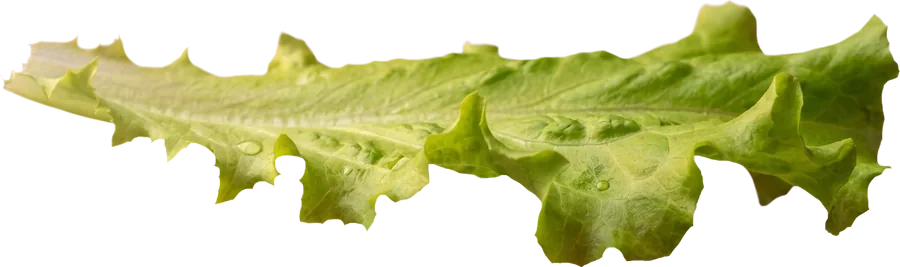
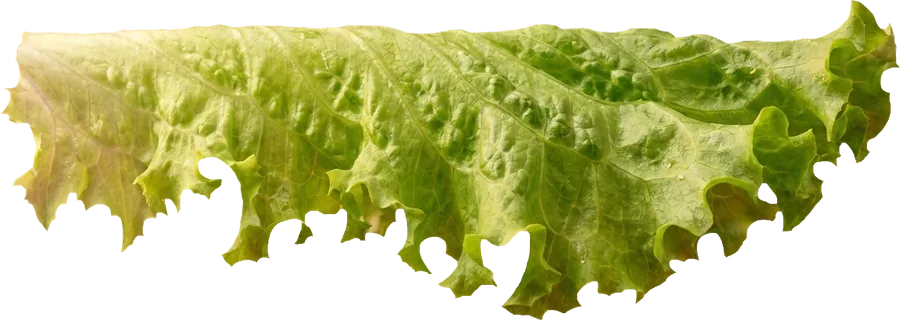
fix(camadas): alface vira faixa continua e o tomate entra em perfil de verdade
O cliente apontou que alface e cebola continuavam com cara artificial. Pesquisei
food styling de hamburguer antes de tentar outro ajuste no escuro, e a pesquisa
explicou os dois defeitos.

ALFACE — ERA FOLHA, PRECISAVA SER FAIXA

Food stylist usa folha de borda ondulada formando uma faixa continua que corre
pelo perimetro e sobra cerca de um centimetro da borda. A nossa era uma folha
assimetrica: grossa de um lado, ponta fina do outro. Centralizada na pilha, o
pao cobria o meio dela e sobravam duas pontas soltas nas laterais — o "recorte
colado" que ele viu.

TOMATE-CEBOLA — NAO ESTAVA EM PERFIL

Mostrava a face cortada inteira, polpa e sementes de frente, e a cebola como
elipse completa deslocada para a direita. Vista de cima com outro nome. Por isso
destoava do pao e da carne, que estao em perfil real, e por isso a cebola
aparecia so de um lado.

Agora: "reading as a horizontal red band… NOT the flat cut face", com a cebola
CENTRADA e "never a full ellipse".

A ARMADILHA QUE CUSTOU UMA GERACAO

Pedir "spanning the full width edge to edge" briga com o bloco de enquadramento,
que exige o ingrediente inteiro dentro do quadro. O modelo seguiu o mais
concreto e encostou a folha nas quatro bordas: empilhada, aparecia um RETANGULO
reto atras do pao, com o topo cortado em linha.

E a terceira vez que o mesmo mecanismo morde este script — instrucao concreta
vence instrucao distante. Ja aconteceu com o fundo, com a perspectiva, agora com
[…]

diff --git a/assets/prompts.md b/assets/prompts.md
@@ -383,3 +383,50 @@ justamente por terem saído no `pro`. Take final regerado em `gemini-3-pro-image
 **Nota:** pendente de aprovação do cliente. Se passar, promover o bloco de
 perspectiva para o `LOOK.md`, porque ele vale para qualquer conjunto de camadas
 futuro — não só para este.
+
+---
+
+## [camadas] Alface e tomate-cebola — o que a pesquisa de food styling corrigiu
+
+**2026-08-25** · segunda correção, depois de o cliente apontar que alface e
+cebola continuavam com cara artificial.
+
+**O que a pesquisa mostrou** ([FoodShot AI](https://foodshot.ai/blog/burger-photography),
+[Food Bloggers of Canada](https://www.foodbloggersofcanada.com/food-styling-the-burger/),
+[Hitchcock Farms](https://www.hitchcockfarms.com/blog/best-lettuce-for-burgers)):
+
+1. **Alface é faixa, não folha.** Food stylist usa folha de borda ondulada
+   formando uma faixa contínua que corre pelo perímetro e sobra ~1cm da borda.
+   A nossa era uma folha assimétrica — grossa de um lado, ponta fina do outro.
+   Centralizada, o pão cobria o meio e sobravam duas pontas soltas nas
+   laterais: exatamente o "recorte colado" que o cliente viu.
+2. **Cada ingrediente aparece pela FRENTE**, não pelas beiradas — *"every
+   ingredient peeking out the front"*. Eu vinha resolvendo tudo por transbordo
+   lateral, que é justamente o que denuncia a montagem.
+
+**O defeito real do tomate-cebola:** a camada não estava em perfil. Mostrava a
+face cortada inteira (polpa e sementes de frente) e a cebola como elipse
+completa deslocada para a direita — vista de cima com outro nome. Empilhada, a
+cebola aparecia só de um lado.
+
+**Correções de prompt:**
+
+| Camada | Antes | Depois |
+|---|---|---|
+| alface | "a single ruffled leaf… thin wavy band" | "a wide continuous band… ONE unbroken layer", negando fragmento isolado e ponta fina |
+| tomate-cebola | "cut edge facing the camera" | "reading as a horizontal red band… NOT the flat cut face"; cebola CENTRADA e "never a full ellipse" |
+
+**Armadilha nova, e cara:** pedir `spanning the full width edge to edge` briga
+com o bloco de enquadramento, que exige o ingrediente inteiro dentro do quadro.
+O modelo obedeceu ao mais concreto e encostou a folha nas quatro bordas — o
+resultado empilhado mostrava um **retângulo reto** atrás do pão, com o topo
+cortado em linha. A formulação que funciona é "much wider than it is tall" +
+"floats fully inside the frame with clear empty margin on all four sides" +
+"top contour must be irregular, never a straight horizontal line".
+
+É a terceira vez que o mesmo mecanismo morde este script: **instrução concreta
+vence instrução distante**. Já aconteceu com o fundo, com a perspectiva e agora
+com o enquadramento.
+
+Resultado: alface 900×320, tomate-cebola 900×234, ambas em perfil e coerentes
+com as outras cinco. Nota pendente de aprovação do cliente.
